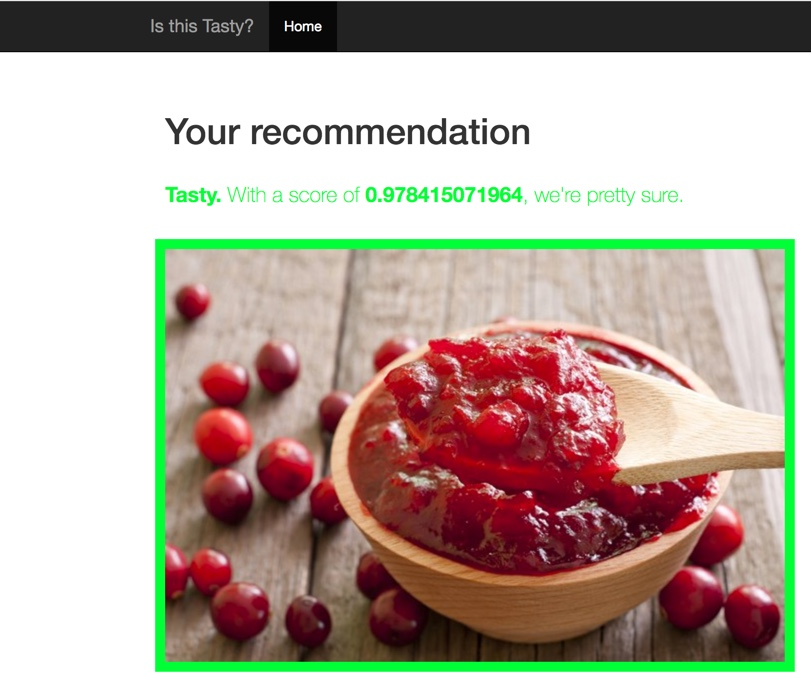
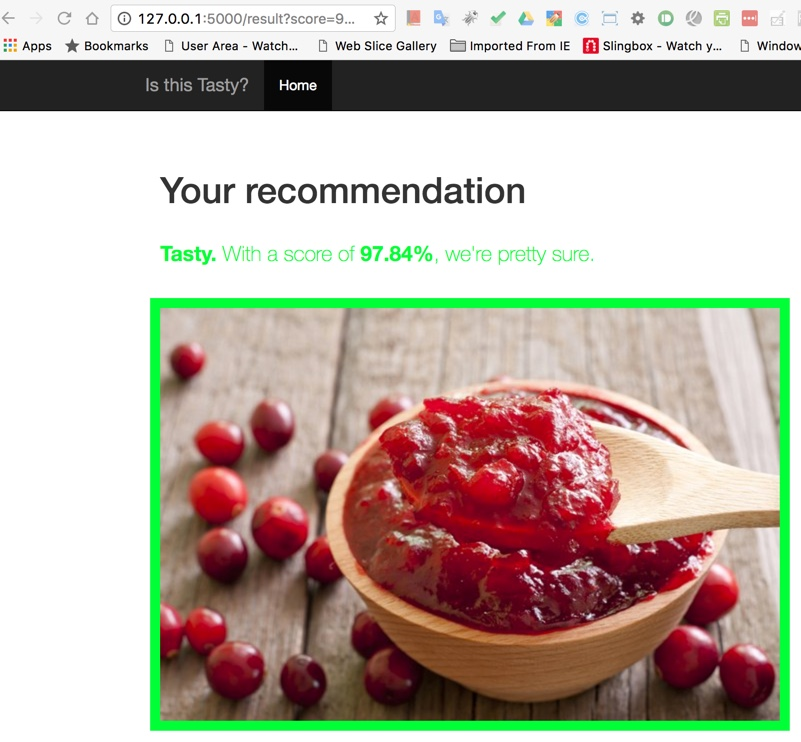
check readme

diff --git a/transfer_learning/web_server/templates/jresults.html b/transfer_learning/web_server/templates/jresults.html
@@ -45,7 +45,7 @@
     <div class="starter-template">
       <h1>Your recommendation</h1>
       <br/>
-      <p class=lead style="color: {{ border_color}};"><b>{{ label }}</b> With a score of <strong>{{ score }}</strong>, we're {% if score | float > 0.7 %}
+      <p class=lead style="color: {{ border_color}};"><b>{{ label }}</b> With a score of <strong>{{ score}}%</strong>, we're {% if score | float > 0.7 %}
 	pretty
 	{% else %}
 	somewhat

diff --git a/transfer_learning/web_server/predict_server.py b/transfer_learning/web_server/predict_server.py
@@ -82,7 +82,8 @@ def upload_file():
             return redirect(url_for('show_result',
                                     filename=filename,
                                     label=label,
-                                    score=score))
+                                    score='{:0,.2f}'.format(score*100)))
+                                    #score=score))
 
     return render_template('index.html')
 

diff --git a/transfer_learning/Instructions.md b/transfer_learning/Instructions.md
@@ -323,6 +323,7 @@ Other examples:
 
 ![View of flask](images/web-5.jpg)
 ![View of flask](images/web-6.jpg)
+![View of flask](images/web-7.jpg)
 
 ## Appendix: Extending the project to multi-class images.
 
